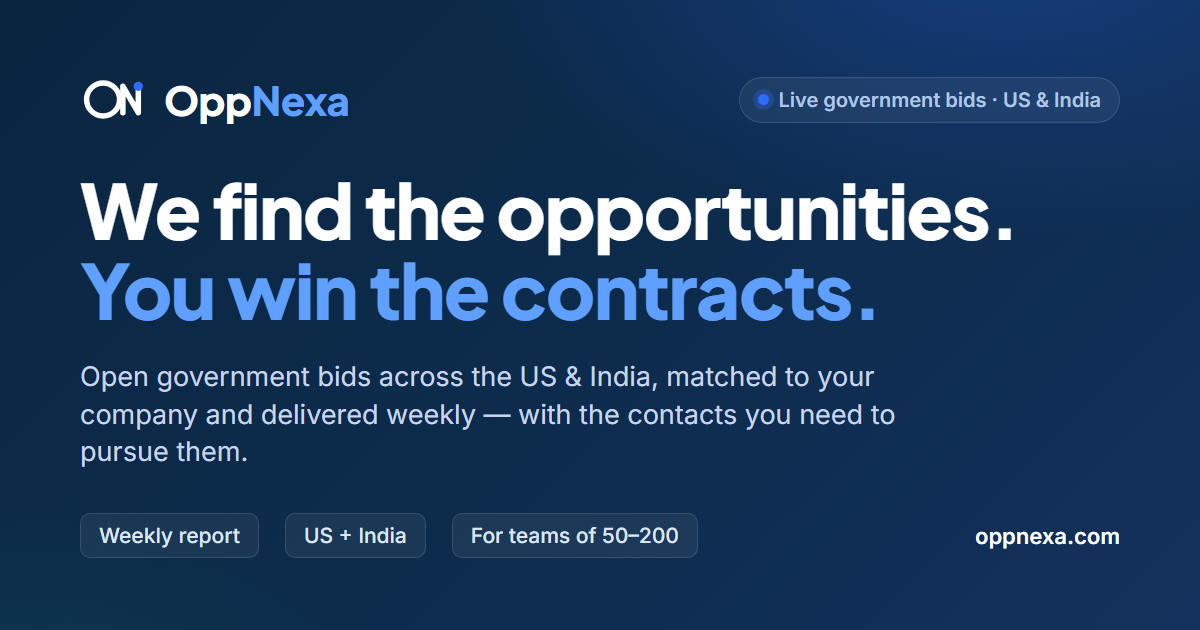
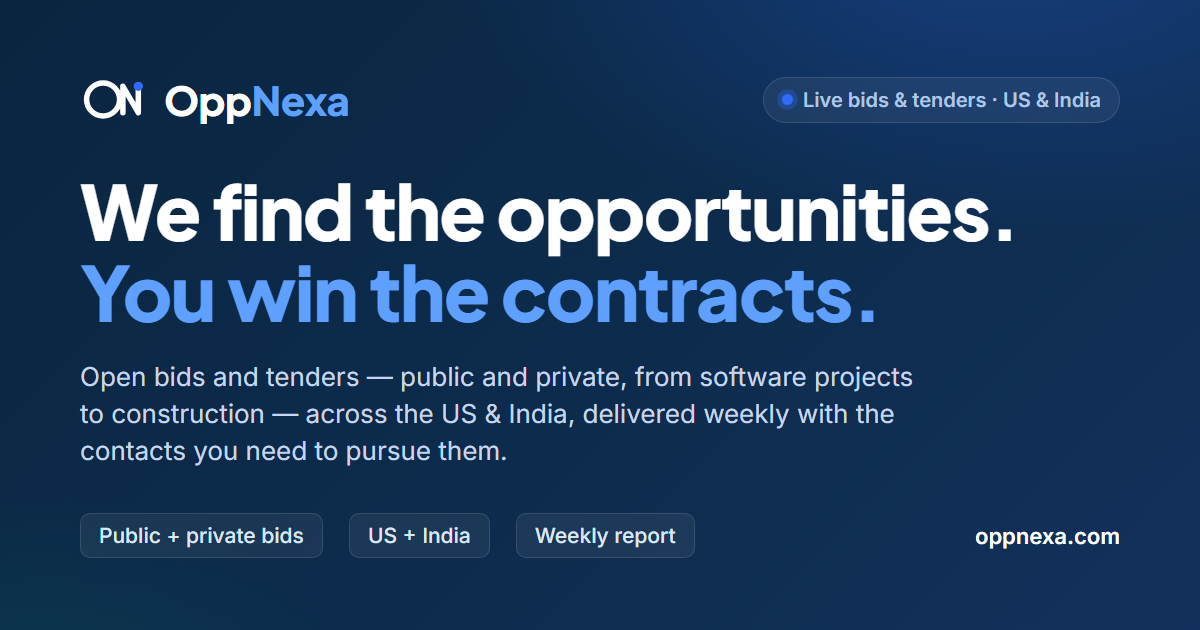
Rebroaden copy: all bids (public + private), not government-only
Hero, meta, OG image, report card, marquee, how-it-works, features,
who-it's-for, pricing and FAQ updated to cover government AND private
bids/tenders — software projects, construction, services, any RFP —
across the US and India.

diff --git a/website/index.html b/website/index.html
@@ -3,8 +3,8 @@
 <head>
 <meta charset="utf-8" />
 <meta name="viewport" content="width=device-width, initial-scale=1" />
-<title>OppNexa — Government bid opportunities, delivered weekly</title>
-<meta name="description" content="OppNexa finds open government bid opportunities across the US and India, matches them to your company, and delivers a weekly report with the contacts you need to pursue them. You focus on winning." />
+<title>OppNexa — Bid &amp; tender opportunities, delivered weekly</title>
+<meta name="description" content="OppNexa finds open bid and tender opportunities — public and private, from software projects to construction — across the US and India, matches them to your company, and delivers a weekly report with the contacts you need to pursue them. You focus on winning." />
 <link rel="canonical" href="https://oppnexa.com/" />
 <meta name="theme-color" content="#0A2540" />
 
@@ -12,17 +12,17 @@
 <meta property="og:type" content="website" />
 <meta property="og:site_name" content="OppNexa" />
 <meta property="og:title" content="OppNexa — We find the opportunities. You win the contracts." />
-<meta property="og:description" content="Open government bids across the US and India, matched to your company and delivered weekly — with the contacts you need to pursue them." />
+<meta property="og:description" content="Open bids and tenders — public and private, software to construction — across the US and India, matched to your company and delivered weekly, with the contacts you need to pursue them." />
 <meta property="og:url" content="https://oppnexa.com/" />
 <meta property="og:image" content="https://oppnexa.com/assets/og-image.png" />
 <meta property="og:image:width" content="1200" />
 <meta property="og:image:height" content="630" />
-<meta property="og:image:alt" content="OppNexa — weekly government bid opportunities for the US and India" />
+<meta property="og:image:alt" content="OppNexa — weekly bid and tender opportunities for the US and India" />
 
 <!-- Twitter / X card -->
 <meta name="twitter:card" content="summary_large_image" />
 <meta name="twitter:title" content="OppNexa — We find the opportunities. You win the contracts." />
-<meta name="twitter:description" content="Open government bids across the US and India, matched to your company and delivered weekly — with the contacts you need to pursue them." />
+<meta name="twitter:description" content="Open bids and tenders — public and private, software to construction — across the US and India, matched to your company and delivered weekly, with the contacts you need to pursue them." />
 <meta name="twitter:image" content="https://oppnexa.com/assets/og-image.png" />
 
 <link rel="icon" href="assets/favicon.svg" type="image/svg+xml" />
@@ -65,9 +65,9 @@
   <section class="hero">
     <div class="container hero-inner">
       <div class="hero-copy reveal">
-        <span class="eyebrow"><span class="live-dot"></span> Live government bids · US &amp; India</span>
+        <span class="eyebrow"><span class="live-dot"></span> Live bids &amp; tenders · US &amp; India</span>
         <h1>We find the opportunities.<br><span class="accent">You win the contracts.</span></h1>
-        <p class="lead">OppNexa tracks open government bids across the US and India, matches the right ones to your company, and delivers a weekly report — with the contacts you need to pursue them. You focus on winning.</p>
+        <p class="lead">OppNexa tracks open bids and tenders — government and private, from software projects to construction — across the US and India, matches the right ones to your company, and delivers a weekly report with the contacts you need to pursue them. You focus on winning.</p>
         <div class="hero-cta">
           <a href="#contact" class="btn btn-primary">Start winning bids</a>
           <a href="#how" class="btn btn-ghost">See how it works</a>
@@ -80,18 +80,18 @@
             <span class="rc-title">This week's opportunities</span>
             <span class="rc-badge"><span class="live-dot"></span> 24 new</span>
           </div>
-          <div class="rc-row"><div><strong>IT Modernization — State of Texas</strong><span>Closes in 12 days · $1.2M</span></div><span class="rc-tag">IT</span></div>
-          <div class="rc-row"><div><strong>Road Resurfacing — Karnataka PWD</strong><span>Closes in 9 days · ₹4.5Cr</span></div><span class="rc-tag green">Infra</span></div>
-          <div class="rc-row"><div><strong>Hospital Supplies — VA Federal</strong><span>Closes in 18 days · $640K</span></div><span class="rc-tag">Health</span></div>
-          <div class="rc-row"><div><strong>School IT Hardware — Maharashtra</strong><span>Closes in 7 days · ₹2.1Cr</span></div><span class="rc-tag green">Edu</span></div>
+          <div class="rc-row"><div><strong>IT Modernization — State of Texas</strong><span>Closes in 12 days · $1.2M</span></div><span class="rc-tag">Gov</span></div>
+          <div class="rc-row"><div><strong>Mobile App Development — FinTech Co.</strong><span>Closes in 8 days · $240K</span></div><span class="rc-tag green">Software</span></div>
+          <div class="rc-row"><div><strong>Warehouse Fit-out — Retail Group</strong><span>Closes in 9 days · ₹3.8Cr</span></div><span class="rc-tag">Private</span></div>
+          <div class="rc-row"><div><strong>Cloud Migration RFP — Logistics Co.</strong><span>Closes in 7 days · ₹1.6Cr</span></div><span class="rc-tag green">IT</span></div>
           <div class="rc-foot">+ full contact details for each bid</div>
         </div>
       </div>
     </div>
     <div class="marquee" aria-hidden="true">
       <div class="marquee-track" id="marquee">
-        <span>Federal · US</span><span>State Tenders</span><span>Central · India</span><span>GeM</span><span>Construction</span><span>IT &amp; Software</span><span>Healthcare</span><span>Facilities</span><span>Defense Supplies</span><span>Education</span>
-        <span>Federal · US</span><span>State Tenders</span><span>Central · India</span><span>GeM</span><span>Construction</span><span>IT &amp; Software</span><span>Healthcare</span><span>Facilities</span><span>Defense Supplies</span><span>Education</span>
+        <span>Government · US</span><span>Private RFPs</span><span>State Tenders · India</span><span>Software Projects</span><span>Construction</span><span>IT &amp; Software</span><span>Corporate Tenders</span><span>Healthcare</span><span>Startups</span><span>Facilities</span><span>Services</span><span>Education</span>
+        <span>Government · US</span><span>Private RFPs</span><span>State Tenders · India</span><span>Software Projects</span><span>Construction</span><span>IT &amp; Software</span><span>Corporate Tenders</span><span>Healthcare</span><span>Startups</span><span>Facilities</span><span>Services</span><span>Education</span>
       </div>
     </div>
   </section>
@@ -109,14 +109,14 @@
     <div class="container">
       <div class="section-head reveal">
         <span class="kicker">How it works</span>
-        <h2>From thousands of tenders to the few that fit you</h2>
+        <h2>From thousands of bids to the few that fit you</h2>
         <p>Three steps. No portals to learn, no research to do. Just open bids, ready to pursue.</p>
       </div>
       <div class="steps">
         <div class="step reveal">
           <span class="step-no">01</span>
           <h3>We scan everything</h3>
-          <p>Federal, state, and central government tenders across the US and India — every domain, every day.</p>
+          <p>Public and private bids across the US and India — government tenders, corporate RFPs, software projects, every domain, every day.</p>
         </div>
         <div class="step reveal">
           <span class="step-no">02</span>
@@ -142,8 +142,8 @@
       <div class="feature-grid">
         <div class="feature reveal"><div class="feat-ico">📄</div><h3>Weekly bid report</h3><p>A curated list of currently-open opportunities, delivered on a predictable schedule.</p></div>
         <div class="feature reveal"><div class="feat-ico">☎</div><h3>Verified contacts</h3><p>The right person to reach for each bid — so you can act, not hunt.</p></div>
-        <div class="feature reveal"><div class="feat-ico">🌐</div><h3>US + India coverage</h3><p>Federal and state in the US, central and state in India — in one place.</p></div>
-        <div class="feature reveal"><div class="feat-ico">🧩</div><h3>Every domain</h3><p>Construction, IT, healthcare, facilities, defense supplies, education and more.</p></div>
+        <div class="feature reveal"><div class="feat-ico">🌐</div><h3>US + India coverage</h3><p>Government and private bids across the US and India — all in one place.</p></div>
+        <div class="feature reveal"><div class="feat-ico">🧩</div><h3>Every domain</h3><p>Software projects, construction, IT, healthcare, facilities, services, education and more.</p></div>
         <div class="feature reveal"><div class="feat-ico">🎯</div><h3>Matched to you</h3><p>We tune the report to your industry and size, so every bid is relevant.</p></div>
         <div class="feature reveal"><div class="feat-ico">⚡</div><h3>Zero busywork</h3><p>No portals, no scraping, no research team. We do the finding; you do the winning.</p></div>
       </div>
@@ -158,7 +158,7 @@
         <h2>Growing companies that can't afford to miss a bid</h2>
         <p class="who-lead">If you're a team of 50–200 without a dedicated bid-hunting department, OppNexa is your bid desk — for a fraction of the cost of hiring one.</p>
         <ul class="check-list">
-          <li>You know government contracts are worth pursuing — but finding them eats time you don't have.</li>
+          <li>You know there are contracts worth pursuing — public and private — but finding them eats time you don't have.</li>
           <li>You've missed bids simply because you didn't hear about them in time.</li>
           <li>You want a steady, reliable pipeline of opportunities without building a research team.</li>
         </ul>
@@ -189,7 +189,7 @@
         </div>
         <div class="price-right">
           <ul class="check-list">
-            <li>Weekly report of open government bids</li>
+            <li>Weekly report of open bids — public and private</li>
             <li>US &amp; India coverage, all domains</li>
             <li>Verified contact details for every bid</li>
             <li>Opportunities matched to your company</li>
@@ -239,7 +239,7 @@
       </div>
       <div class="faq-list">
         <details class="faq reveal"><summary>Do you submit bids on our behalf?</summary><p>No. We find and deliver the open opportunities and the contacts to pursue them. The bidding itself — the paperwork and submission — stays with your team. That's what keeps us fast and affordable.</p></details>
-        <details class="faq reveal"><summary>Which countries and sectors do you cover?</summary><p>Government tenders in the US (federal and state) and India (central and state), across domains including construction, IT, healthcare, facilities, defense supplies, and education.</p></details>
+        <details class="faq reveal"><summary>Which countries and sectors do you cover?</summary><p>Both public and private opportunities — government tenders (US federal and state, India central and state) and private/corporate RFPs — across domains including software projects, construction, IT, healthcare, facilities, services, and education, in the US and India.</p></details>
         <details class="faq reveal"><summary>How often do I get the report?</summary><p>Every week. A clean, scannable report of currently-open bids lands in your inbox, matched to your company.</p></details>
         <details class="faq reveal"><summary>Can I cancel anytime?</summary><p>Yes. It's a simple monthly membership with no long-term contract.</p></details>
         <details class="faq reveal"><summary>How do I get started?</summary><p>Fill in the form below and we'll set up your profile so your first report is tailored to your company.</p></details>

diff --git a/README.md b/README.md
@@ -1,7 +1,8 @@
 # OppNexa
 
-Marketing site for **OppNexa** — we find open government bid opportunities across
-the US and India, match them to your company, and deliver a weekly report with the
+Marketing site for **OppNexa** — we find open bid and tender opportunities
+(government *and* private, from software projects to construction) across the US
+and India, match them to your company, and deliver a weekly report with the
 contacts you need to pursue them. You focus on winning.
 
 ## Structure
